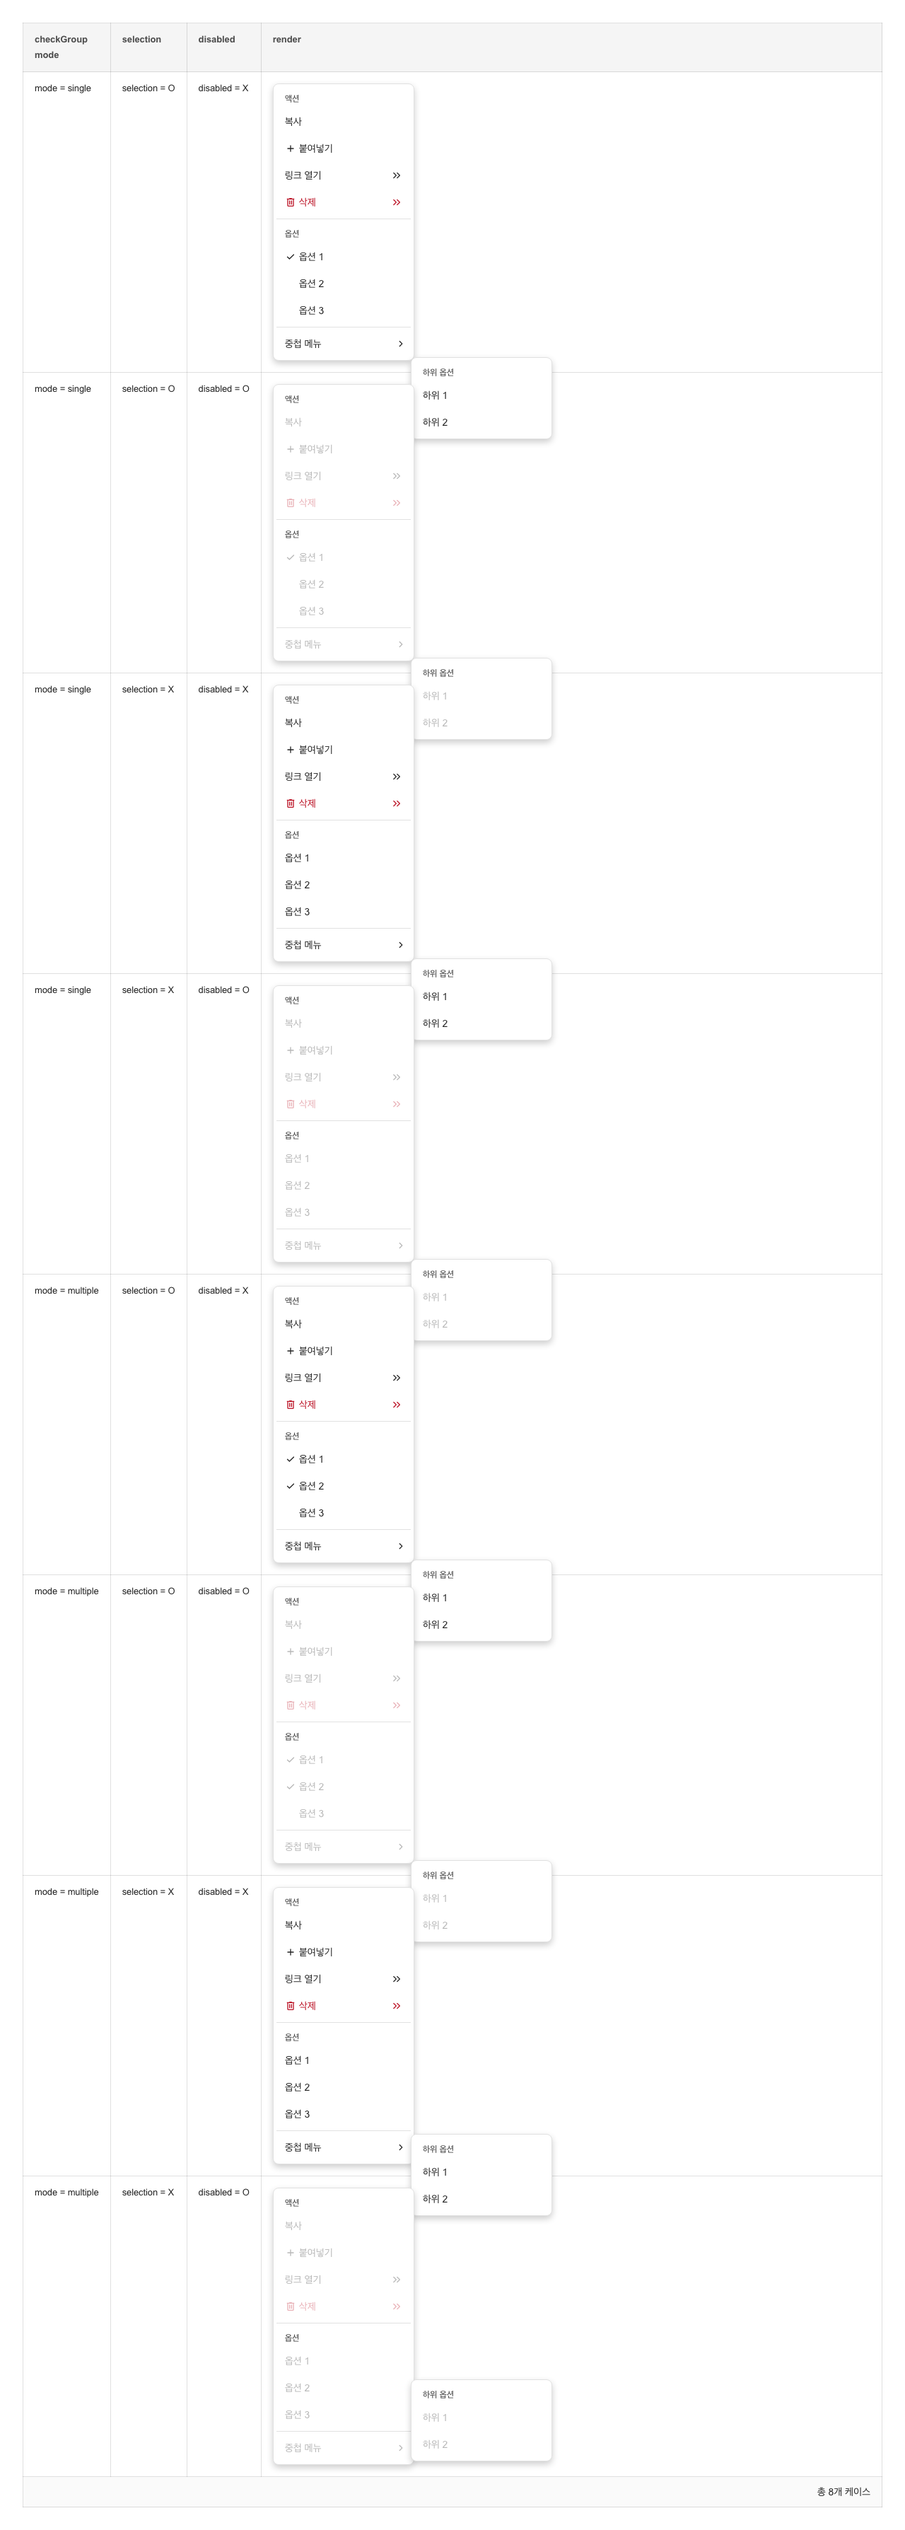
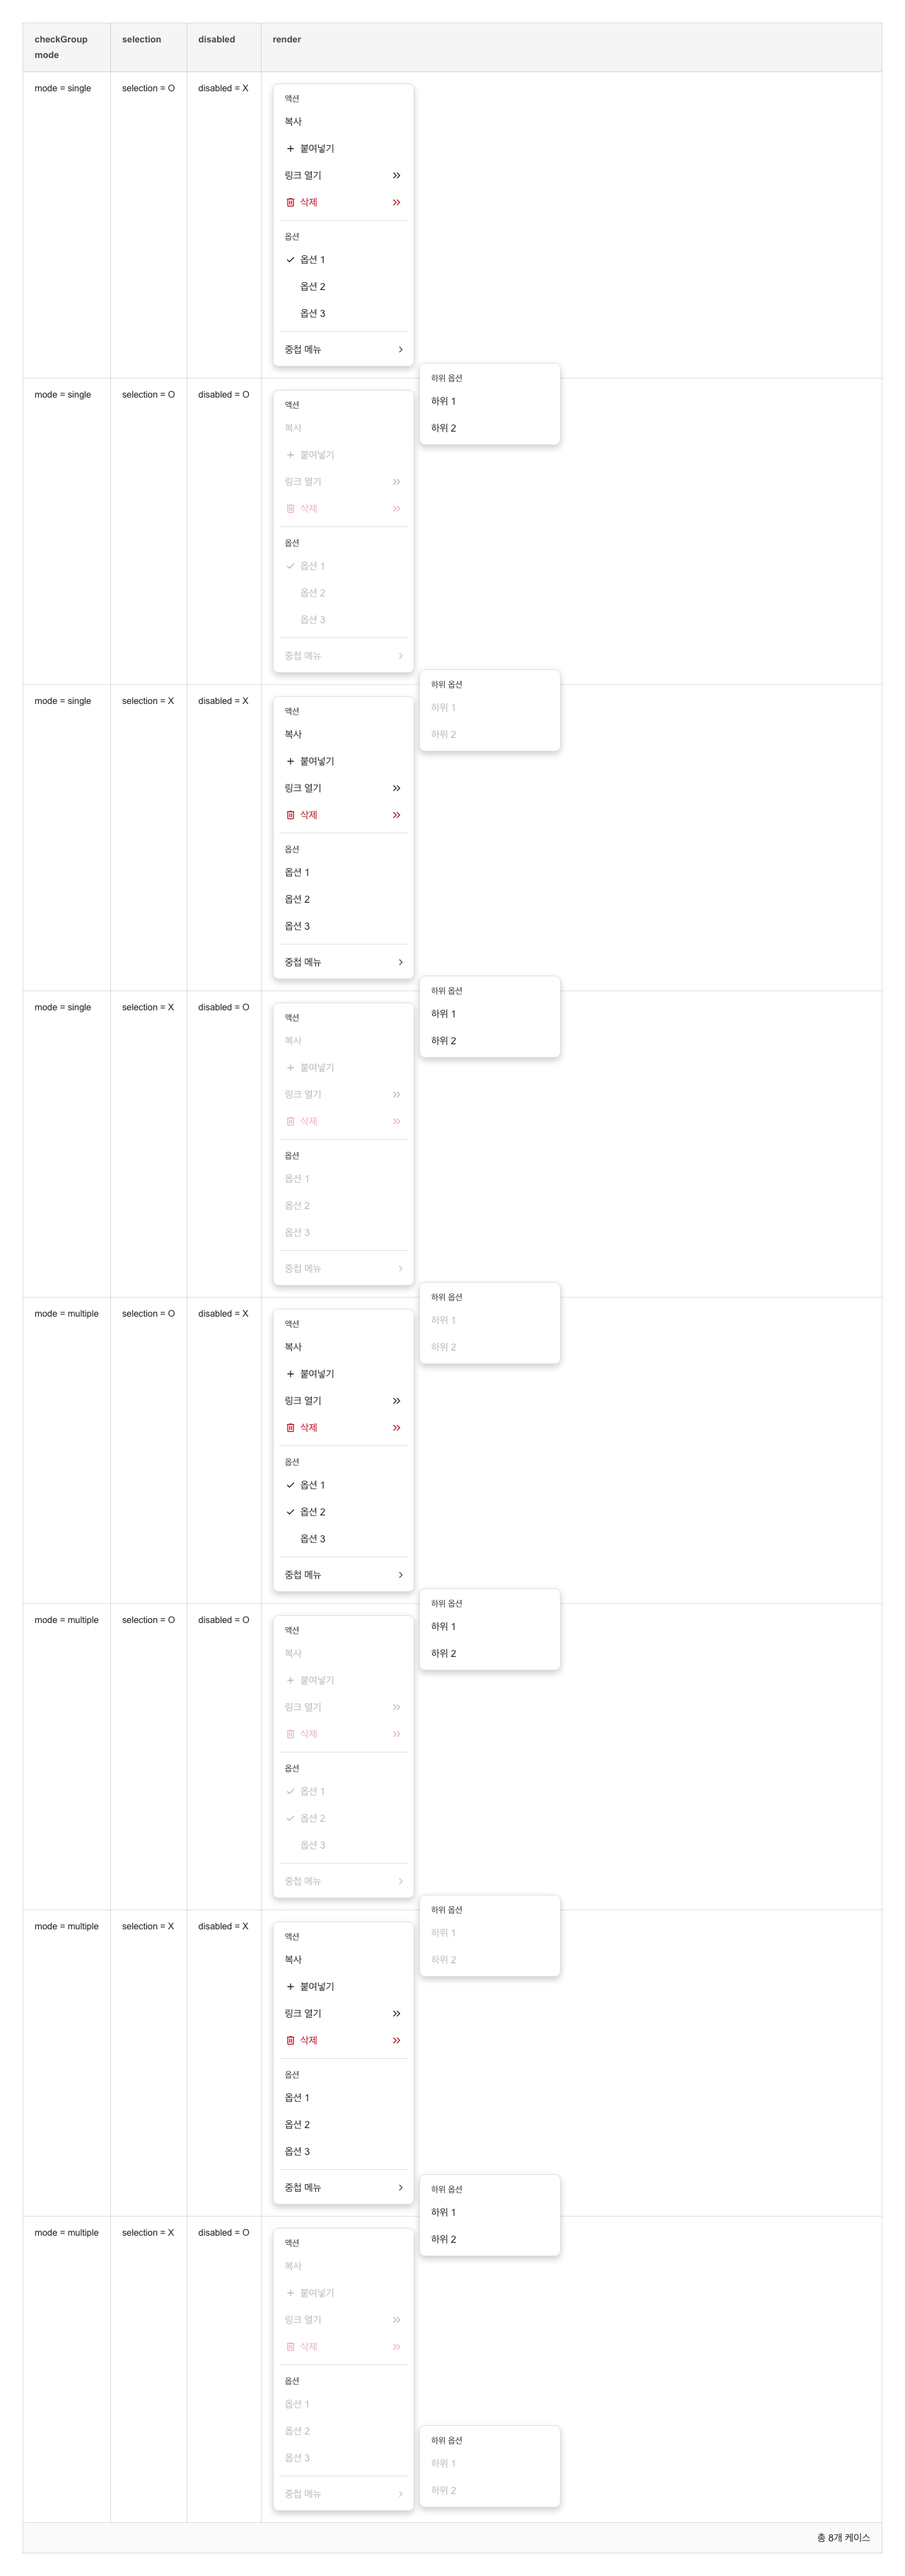
update snapshots

diff --git a/packages/composites/src/components/menu/menu.stories.tsx b/packages/composites/src/components/menu/menu.stories.tsx
@@ -1,7 +1,7 @@
 import { useState } from 'react';
 
 import type { Meta, StoryObj } from '@storybook/react-vite';
-import { Box, Button, Text, VStack } from '@vapor-ui/core';
+import { Badge, Box, Button, Text, VStack } from '@vapor-ui/core';
 import {
     ChevronDoubleRightOutlineIcon,
     HeartIcon,
@@ -25,9 +25,9 @@ export default {
     },
 } satisfies Meta<typeof Menu.Root>;
 
-const Kbd = ({ children }: Box.Props) => {
+const Kbd = ({ children, ...props }: Box.Props) => {
     return (
-        <Box $css={{ fontFamily: 'monospace', fontSize: '12px', color: '$fg-hint' }}>
+        <Box $css={{ fontFamily: 'monospace', fontSize: '12px', color: '$fg-hint' }} {...props}>
             {children}
         </Box>
     );
@@ -75,6 +75,22 @@ export const Default: Story = {
                         </Menu.CheckGroup>
                     </Menu.Root>
 
+                    <Menu.Group label="submenu test">
+                        <Menu.Root
+                            trigger={
+                                <Menu.SubmenuItem
+                                    label="without trailing"
+                                    trailing={<Badge size="sm">선택</Badge>}
+                                />
+                            }
+                        >
+                            <></>
+                        </Menu.Root>
+                        <Menu.Root trigger={<Menu.SubmenuItem label="with trailing" />}>
+                            <></>
+                        </Menu.Root>
+                    </Menu.Group>
+
                     <Menu.Group label="label">
                         <Menu.Item
                             leading={<HeartIcon />}
@@ -106,9 +122,7 @@ export const Default: Story = {
                     >
                         <Menu.CheckItem label="single 1" value="single 1" />
                         <Menu.CheckItem label="single 2" value="single 2" />
-                        <Menu.CheckItem label="single 3" value="single 3" />
-                        <Menu.CheckItem label="single 4" value="single 4" />
-                        <Menu.CheckItem label="single 5" value="single 5" leading={<HeartIcon />} />
+                        <Menu.CheckItem label="single 3" value="single 3" leading={<HeartIcon />} />
                     </Menu.CheckGroup>
 
                     <Menu.CheckGroup
@@ -120,7 +134,6 @@ export const Default: Story = {
                         <Menu.CheckItem label="multiple 1" value="multiple 1" />
                         <Menu.CheckItem label="multiple 2" value="multiple 2" />
                         <Menu.CheckItem label="multiple 3" value="multiple 3" />
-                        <Menu.CheckItem label="multiple 4" value="multiple 4" />
                     </Menu.CheckGroup>
                 </Menu.Root>
             </div>
